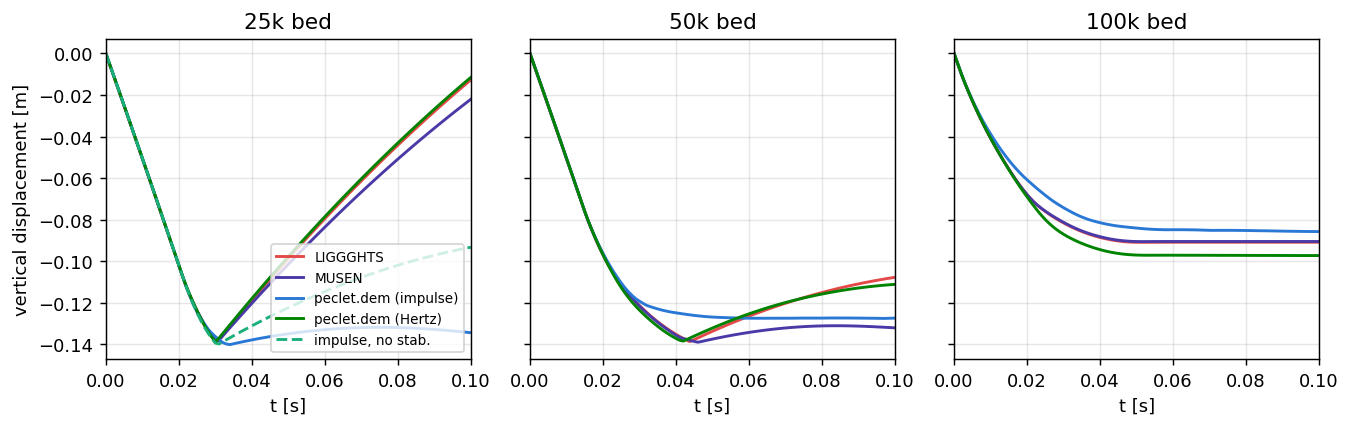
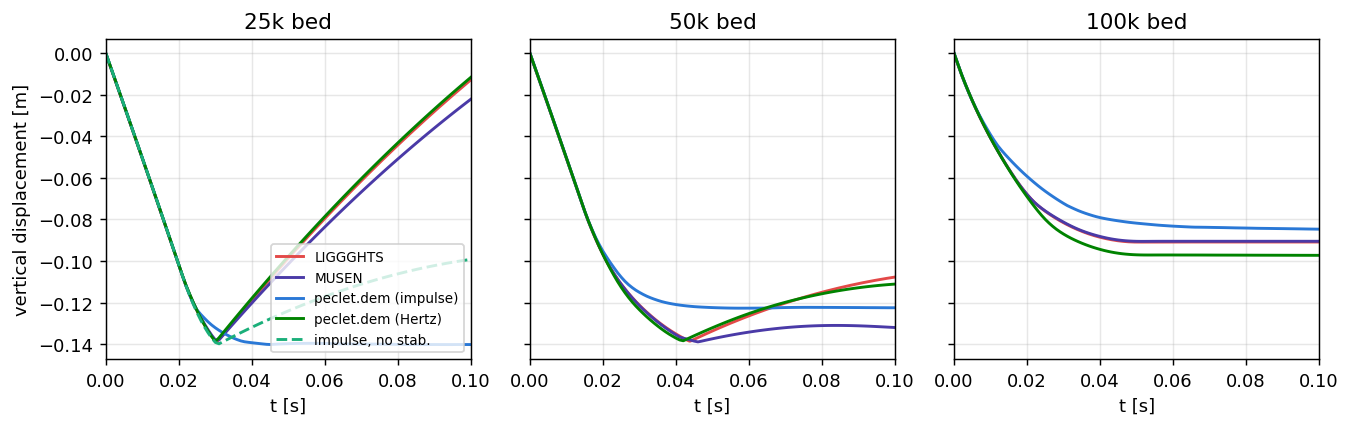
benchmarks/dem-bulk-dosta2024: drum resolved — position-channel Coulomb-bound carry
The stick/slip investigation (user's insight: set-valued Coulomb STICK, not
tangential elasticity, is what a rigid-contact method needs) found the leak
by kinematic diagnostics against the in-suite Hertz control: the impulse
solver's wall layer slid 99% of the time because the position projection
transmits part of the normal load invisibly to the friction bound. Fix (dem
eb89790): carry the position solve's per-contact normal corrections, in
impulse units by pair key with a quasi-static gate, into the cone bound =
mu * total transmitted normal load. Drum wall kinematics snap to reference
(co-rotation 0.93-0.97, slip 2-4%), the blue curve now runs all three cycles
at the references' ~2 s period (peaks ~15-30% low remain - rigid stick vs
elastic microslip), statics improve, impacts/silo within scatter. Entry
rewritten around the resolution with the full diagnostic path kept visible;
ISSUES drum entry RESOLVED; new diagnostic script (drum_diag.py) shipped.

diff --git a/benchmarks/dem-bulk-dosta2024/scripts/drum_diag.py b/benchmarks/dem-bulk-dosta2024/scripts/drum_diag.py
@@ -1,0 +1,134 @@
+#!/usr/bin/env python
+"""Drum kinematics diagnostic: WHERE does the impulse solver slip vs the Hertz engine?
+
+Runs 2.0 s of the benchmark drum with either engine and records, every 0.1 s:
+  - bed mean angular velocity about the drum axis, by radial band (r/R in 4 bands),
+    normalized by the drum's omega ( = 1 means perfect co-rotation);
+  - wall-layer slip: mean tangential surface-velocity difference grain-vs-wall for
+    grains within 1.5 small-grain-diameters of the barrel;
+  - the fraction of wall-layer grains whose contact slides (|slip| > 0.05 * wall speed).
+"""
+import argparse
+
+import numpy as np
+
+from peclet import dem
+from peclet.dem import build_wall_sdf
+
+IC = ("/tmp/claude-1003/-home-frankp-Codes-suite/9e9b807a-7a8a-4948-a080-545a0f831797/"
+      "scratchpad/dosta2024/SupplementaryMaterial/InitialCoordinates/Case 2 - Mixer/"
+      "PartCoordinates.txt")
+R_DRUM, Y_HALF, OMEGA = 0.1, 0.03, 2.0
+
+
+def drum_sdf(p):
+    barrel = R_DRUM - np.sqrt(p[:, 0] ** 2 + p[:, 2] ** 2)
+    caps = np.minimum(p[:, 1] + Y_HALF, Y_HALF - p[:, 1])
+    return np.minimum(barrel, caps)
+
+
+def main():
+    ap = argparse.ArgumentParser()
+    ap.add_argument("--engine", choices=["impulse", "hertz"], default="impulse")
+    ap.add_argument("--iters", type=int, nargs=2, default=[12, 8])
+    ap.add_argument("--dt", type=float, default=None)
+    ap.add_argument("--tend", type=float, default=2.0)
+    args = ap.parse_args()
+    dt = args.dt or (8e-7 if args.engine == "hertz" else 1e-4)
+
+    d = np.loadtxt(IC, skiprows=1)
+    radii, pos = d[:, 0].astype(np.float64), d[:, 1:4].astype(np.float64)
+    n = len(d)
+    is_m1 = radii < 0.0015
+    rho = np.where(is_m1, 2500.0, 2000.0)
+
+    sim = dem.Simulation(n)
+    sim.set_sphere_shape(0.001)
+    lo, hi = (-0.105, -0.036, -0.105), (0.105, 0.036, 0.105)
+    sim.set_domain(lo, hi)
+    sim.enable_periodicity(False, False, False)
+    wall = build_wall_sdf(drum_sdf, (lo, hi), resolution=(192, 72, 192))
+    wid = wall.add_to(sim, restitution=0.4, friction=0.2)
+    sim.set_wall_velocity(wid, (0, 0, 0), (0, -OMEGA, 0), (0, 0, 0))
+    sim.set_pair_material(0, 0, 0.5, 0.3)
+    sim.set_pair_material(0, 1, 0.45, 0.2)
+    sim.set_pair_material(1, 1, 0.4, 0.4)
+    sim.set_pair_material(0, 2, 0.4, 0.2)
+    sim.set_pair_material(1, 2, 0.4, 0.2)
+    sim.set_wall_material_id(wid, 2)
+    sim.set_positions(pos.astype(np.float32))
+    sim.set_scales((radii / 0.001).astype(np.float32))
+    m = rho * 4 / 3 * np.pi * radii**3
+    sim.set_inv_mass((1.0 / m).astype(np.float32))
+    sim.set_inv_inertia(np.repeat((1.0 / (0.4 * m * radii**2))[:, None], 3, 1).astype(np.float32))
+    sim.set_velocities(np.zeros((n, 3), np.float32))
+    sim.set_material_ids(np.where(is_m1, 0, 1).astype(np.int32).tolist())
+    sim.set_gravity(0, 0, -9.81)
+    sim.set_material_params(0.45, 0.0, 0.25)
+    sim.set_solver_iterations(args.iters[0], args.iters[1])
+    sim.set_thermostat(0, 0)
+    import os
+    if os.environ.get("NOSTAB"):
+        sim.set_stabilization(False)
+    if args.engine == "hertz":
+        sim.set_hertz_material(0, 1.0e9, 0.2)
+        sim.set_hertz_material(1, 0.5e9, 0.2)
+        sim.set_hertz_material(2, 210.0e9, 0.2)
+
+    rec = 0.1
+    nrec = int(round(args.tend / rec))
+    per = int(round(rec / dt))
+    print(f"# engine={args.engine} dt={dt:g} iters={args.iters}")
+    print("# t | omega_bed/omega bands r/R<0.5,0.5-0.75,0.75-0.9,0.9-1 | "
+          "wall-layer slip/(wR) | sliding frac")
+    for k in range(nrec + 1):
+        p = sim.get_positions()
+        v = sim.get_velocities()
+        w = sim.get_angular_velocities()
+        r = np.sqrt(p[:, 0] ** 2 + p[:, 2] ** 2)
+        # angular velocity of each grain about the axis: (r x v)_y / r^2 with axis y
+        omg = (p[:, 2] * v[:, 0] - p[:, 0] * v[:, 2]) / np.maximum(r, 1e-6) ** 2
+        # drum rotates with omega_y = -2 -> co-rotation means omg = -OMEGA; normalize
+        co = omg / (-OMEGA)
+        bands = [(0.0, 0.5), (0.5, 0.75), (0.75, 0.9), (0.9, 1.01)]
+        vals = []
+        for a, b in bands:
+            sel = (r >= a * R_DRUM) & (r < b * R_DRUM)
+            vals.append(co[sel].mean() if sel.sum() > 20 else np.nan)
+        # wall layer: within 1.5 small diameters of the barrel
+        wl = r > (R_DRUM - 3e-3)
+        if wl.sum() > 20:
+            # tangential unit vector for drum rotation (surface moves +z at +x): t = (z,0,-x)/r?
+            # wall surface velocity: v_w = omega x r with omega=(0,-2,0): v_w = (-2)*(y x r)
+            vwx = -OMEGA * p[wl, 2] * -1.0
+            vwz = -OMEGA * -p[wl, 0] * -1.0
+            # v_wall = omega x r ; omega=(0,-W,0), r=(x,0,z) -> v = (-W)*(y_hat x r) = (-W)*(z,0,-x)
+            vwx = -OMEGA * p[wl, 2]
+            vwz = OMEGA * p[wl, 0]
+            # grain surface point velocity at the wall contact ~ v + w x (r_hat * a)
+            rh = np.stack([p[wl, 0] / r[wl], np.zeros(wl.sum()), p[wl, 2] / r[wl]], 1)
+            arm = rh * radii[wl][:, None]
+            vs = v[wl] + np.cross(w[wl], arm)
+            slip = np.stack([vs[:, 0] - vwx, vs[:, 2] - vwz], 1)
+            # tangential projection (remove radial component)
+            rad_comp = slip[:, 0] * rh[:, 0] + slip[:, 1] * rh[:, 2]
+            slip_t = slip - rad_comp[:, None] * np.stack([rh[:, 0], rh[:, 2]], 1)
+            smag = np.linalg.norm(slip_t, axis=1)
+            wall_speed = OMEGA * r[wl]
+            snorm = (smag / np.maximum(wall_speed, 1e-6))
+            sfrac = float((snorm > 0.05).mean())
+            smean = float(snorm.mean())
+        else:
+            smean, sfrac = np.nan, np.nan
+        print("t=%.1f  co-rot: %s  wall-slip %.3f  sliding-frac %.2f" %
+              (k * rec, " ".join("%.3f" % x for x in vals), smean, sfrac), flush=True)
+        if k < nrec:
+            if args.engine == "hertz":
+                sim.step_hertz(dt, per)
+            else:
+                for _ in range(per):
+                    sim.step(dt)
+
+
+if __name__ == "__main__":
+    main()

diff --git a/ISSUES.md b/ISSUES.md
@@ -387,7 +387,15 @@ into the `peclet` suite. See [STYLE_GUIDE.md §8](STYLE_GUIDE.md): log it here
 
 
 ## DEM drum-mixing circulation period ~1.3-1.5x too long (impulse solver)
-- **Status:** root-caused (2026-07-22): missing SUSTAINED-CONTACT tangential elasticity in the
+- **Status:** RESOLVED (dem `eb89790`, 2026-07-23): the position projection was a second
+  normal-force channel invisible to the Coulomb bound, so a jostled bed's friction saturated at a
+  fraction of mu*N (wall layer slid 99% of the time at 27-66% of wall speed; Hertz reference
+  sticks). Fix: carry the position solve's per-contact normal corrections (impulse units, by pair
+  key, quasi-static-gated) into the cone bound. Drum period now matches the references; wall
+  co-rotation 0.93-0.97 with 2-4% slip; statics improved. Residual (new, minor): drum peak
+  amplitude ~25% low with correct period (rigid stick vs Hertz elastic microslip). The 2026-07-22
+  interim analysis below is kept as the record:
+- **Old analysis:** missing SUSTAINED-CONTACT tangential elasticity in the
   impulse contact model. The interim geometry-fidelity diagnosis (faceted vs smooth wall) was
   FALSIFIED by a controlled experiment: the new soft-sphere Hertz-Mindlin engine (step_hertz, dem
   915839f — the paper's exact contact model) phase-locks with the references on the SAME smooth